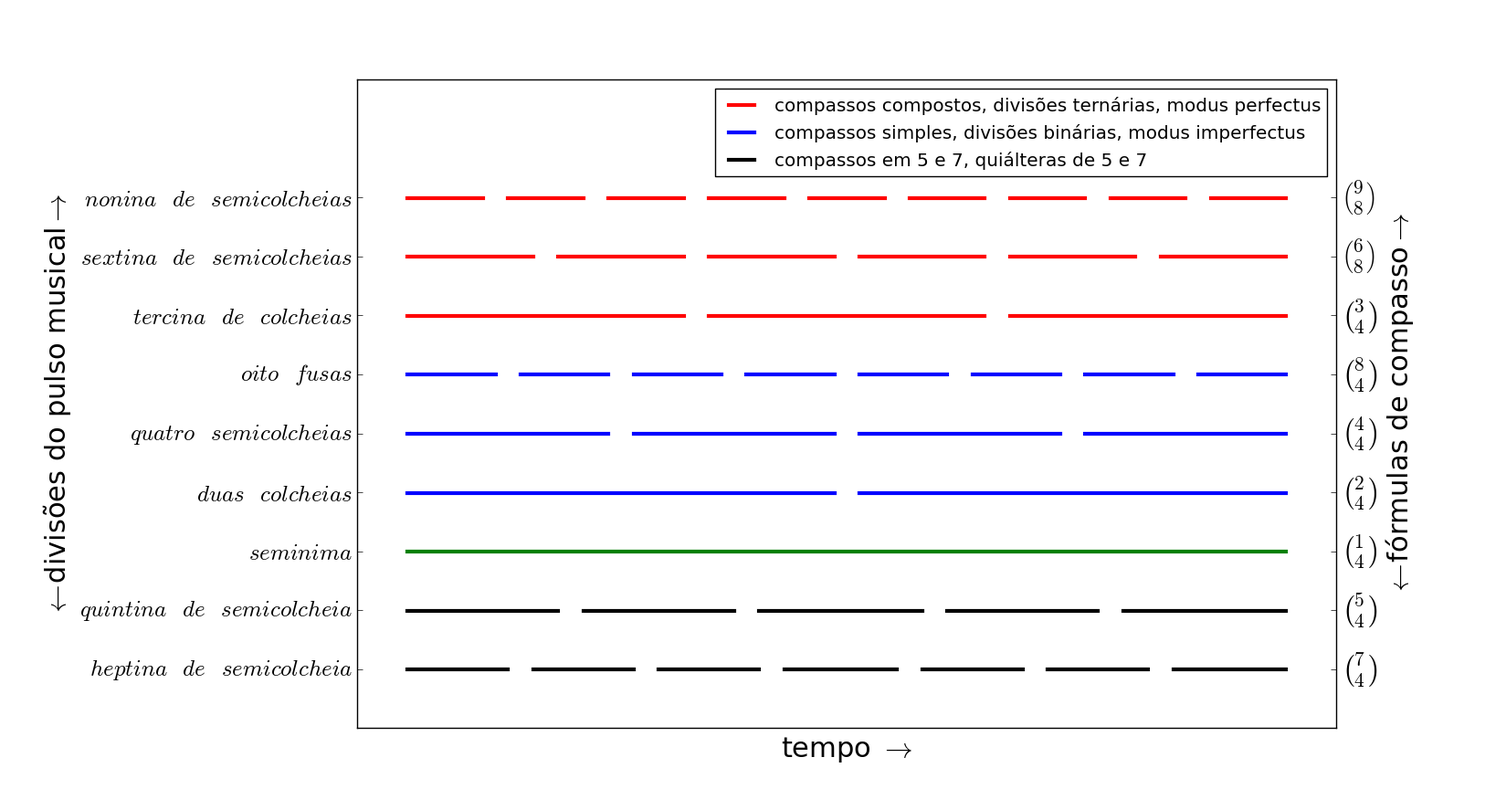
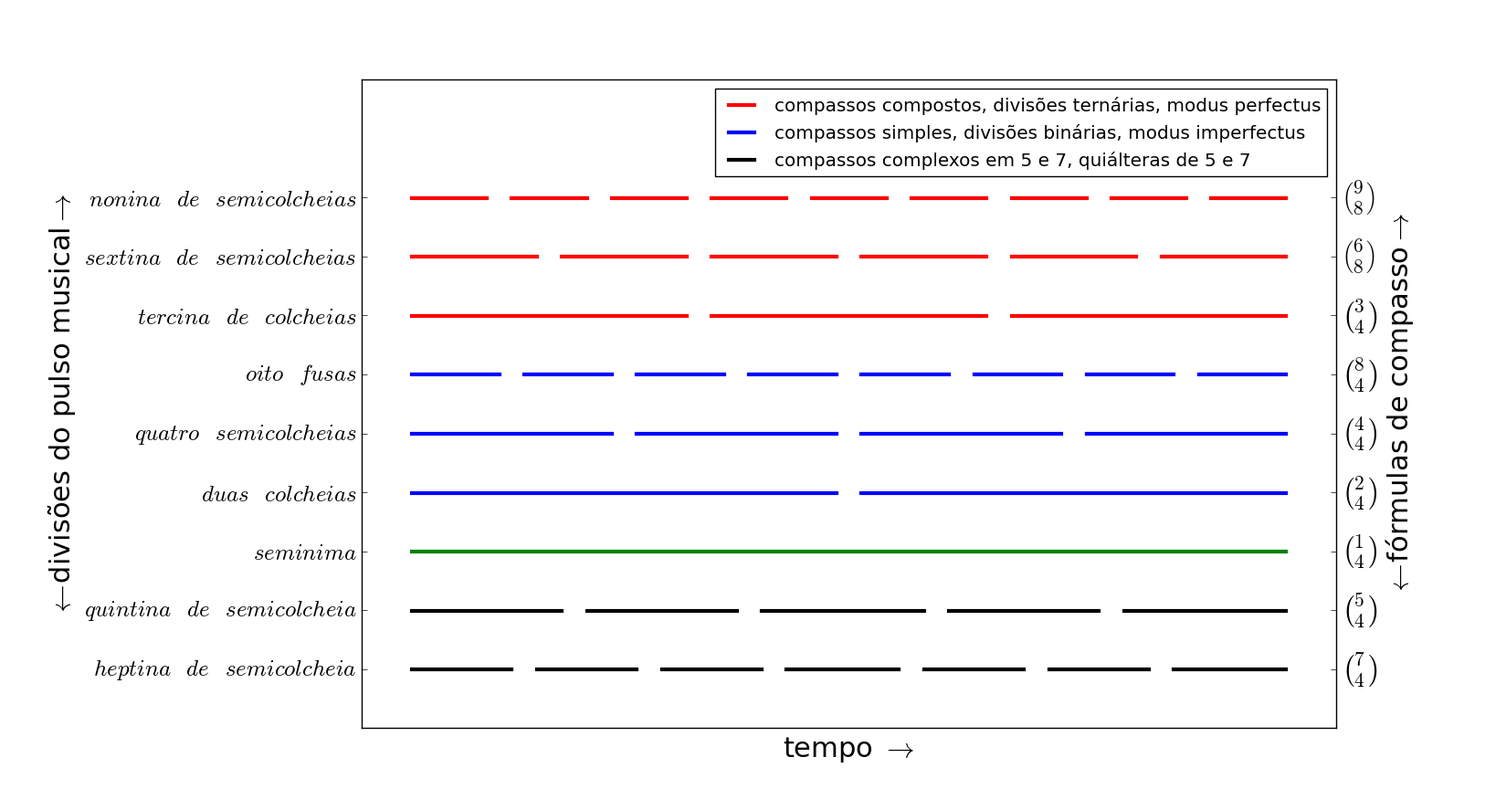
andando

Changed region(s): [[0.0308, 0.1218, 0.246, 0.8828], [0.5843, 0.1826, 0.8303, 0.2131], [0.5228, 0.9132, 0.5843, 0.9436]]

diff --git a/devEresultados.tex b/devEresultados.tex
@@ -1530,7 +1530,7 @@ para tornar estas estruturas interessantes e agradáveis.
 
 Os elementos de $S_j$ podem ser mixados (veja equação~\ref{eq:mixagem} e a figura~\ref{fig:mixagem}) formando intervalos e acordes ou concatenados (veja equação~\ref{eq:concatenacao} e a figura~\ref{fig:concatenacao}) formando sequências melódicas.
 
-\subsubsection{Afinação, escalas, acordes e intervalos}
+\subsubsection{Afinação, intervalos, escalas e acordes}
 Quando dobramos a frequência, temos uma oitava ascendente ($f=2f_0$).
 Doze semitons equidistantes para o ouvido formam uma oitava,
 portanto, se $f=2^{\frac{1}{12}}f_0$, temos um semitom entre $f_0$
@@ -1543,37 +1543,41 @@ computacionais, pois os intrumentos reais possuem desvios destas frequências pa
 de suas notas~\cite{Roederer}.
 
 Esta divisão da oitava em doze notas é o cânone da música ocidental clássica,
-além de usos cerimoniais/religiosos e étnicos~\cite{Wisnick}. Os intervalos entre quaisquer duas notas da escala de 12 notas em que se subdivide a oitava possuem nomes específicos. Notados em proporções de $\varepsilon$ entre as notas (i.e. um semitom), estes intervalos são:
+além de usos cerimoniais/religiosos e étnicos~\cite{Wisnick}. Os intervalos entre quaisquer duas notas da escala de 12 notas em que se subdivide a oitava possuem nomes específicos. Notados em proporções de $\varepsilon$ entre as notas (i.e. um semitom), estes intervalos são, junto a suas notações abreviadas usuais:
 
 \begin{equation}
 \begin{split}
-\text{uníssono} & = 0 \\
-\text{semitom ou segunda menor} & = 1 \\
-\text{tom, tom inteiro ou segunda maior} & = 2 \\
-\text{terça menor} & = 3 \\
-\text{terça maior} & = 4 \\
-\text{quarta justa} & = 5 \\
-\text{quarta aumentada, quinta diminuta ou trítono} & = 6 \\
-\text{quinta justa} & = 7 \\
-\text{sexta menor} & = 8 \\
-\text{sexta maior} & = 9 \\
-\text{sétima menor} & = 10 \\
-\text{sétima maior} & = 11 \\
-\text{oitava} & = 12
+\text{uníssono} = 1J & = 0 \\
+\text{semitom ou segunda menor} =2m & = 1 \\
+\text{tom, tom inteiro ou segunda maior} =2M & = 2 \\
+\text{terça menor} = 3m & = 3 \\
+\text{terça maior} = 3M & = 4 \\
+\text{quarta justa} = 4J & = 5 \\
+\text{quarta aumentada, quinta diminuta ou trítono} = 4aum = 5dim = Tri & = 6 \\
+\text{quinta justa} = 5J & = 7 \\
+\text{sexta menor} = 6m & = 8 \\
+\text{sexta maior} = 6M & = 9 \\
+\text{sétima menor} = 7m & = 10 \\
+\text{sétima maior} = 7M & = 11 \\
+\text{oitava} = 8J & = 12
 \end{split}
 \end{equation}
 
 Nesta nomenclatura (padrão no Brasil há algumas décadas),
 um intervalo justo (uníssono, quarta, quinta e oitava), ou um intervalo maior (segunda maior, terça maior, sexta maior ou sétima maior), acrescido de um semitom, resulta em um intervalo aumentado. Um intervalo justo, ou um intervalo menor (segunda menor, terça menor, sexta menor ou sétima menor), decrescido de um semitom, resulta em um intervalo diminuto. Um intervalo maior, descrescido de um semitom,
 resulta em um intervalo menor. Um intervalo menor, acrescido de um semitom, resulta em um intervalo maior. Um intervalo aumentado, acrescido de um semitom, resulta em um intervalo 'mais que aumentado' e um intervalo diminuto, descrescido de um semitom, resulta em um intervalo 'mais que diminuto'\footnote{A
- necessidade de da nomenclatura, notação e uso de intervalos aumentados/diminutos e mais que aumentados/diminutos é consequência do sistema tonal, em que os graus da escala (veja abaixo) são realmente notas diferentes, com funções e usos específicos. Assim, em uma escala de dó bemol maior, a tônica - primeiro grau - é dó bemol, não si, e a sensível - sétimo grau - é si bemol, não lá sustenido ou dó duplo bemol.}. 
+ necessidade da nomenclatura, notação e uso de intervalos aumentados/diminutos e mais que aumentados/diminutos é consequência do sistema tonal, em que os graus da escala (veja abaixo) são realmente notas diferentes, com funções e usos específicos. Assim, em uma escala de dó bemol maior, a tônica - primeiro grau - é dó bemol, não si, e a sensível - sétimo grau - é si bemol, não lá sustenido ou dó duplo bemol.}. 
 
-Caso as notas sejam dispostas sequencialmente, a ordem das notas, primeiro a nota mais grave ou a mais aguda, resulta em um intervalo ascendente ou descendente, respectivamente. 
+Caso as notas sejam dispostas sequencialmente, o intervalo é dito melódico. A ordem das notas, primeiro a nota mais grave ou a mais aguda, resulta em um intervalo ascendente ou descendente, respectivamente. 
 Passando a nota mais grave para a oitava acima, ou a nota mais aguda uma oitava para baixo, invertemos o intervalo. Um pouco de exploração do sistema revela que um intervalo, somado à sua inversão, resulta 9. Um intervalo maior invertido resulta em um intervalo menor e vice-versa. Um intervalo aumentado invertido resulta diminuto e vice-versa, assim como o mais que aumentado resulta em mais que diminuto e vice-versa. Um intervalo justo invertido resulta igualmente justo.
+
+
+Caso as notas soem simultaneamente, o intervalo é dito harmônico. Os intervalos de uníssono, oitava, quinta justa, quarta justa, terças e sextas são considerados {\bf consonantes}. As segundas, sétimas e trítonos são considerados {\bf dissonantes}. Esta classificação não é absoluta. A sétima menor por vezes é considerada consonante, assim como algumas culturas entoam o trítono como intervalo consonante~\cite{Roederer,Wisnick}.
 
 Um intervalo maior que a oitava é classificado como intervalo composto e leva o nome do intervalo entre as mesmas notas, mas na mesma oitava.
 
-Este arcabouço resume com exatidão a teoria dos intervalos musicais~\cite{Lacerda} e nos será útil adiante. Dispomos esta nomenclatura também por completude desta exposição, não há necessidade alguma de decorar estes nomes ou apreender estes detalhes todos enquanto não há uso efetivo.
+Este arcabouço resume com exatidão a teoria dos intervalos musicais~\cite{Lacerda} e nos será útil adiante. Dispomos esta nomenclatura também por completude desta exposição, não há necessidade alguma de decorar estes nomes ou apreender estes detalhes todos enquanto não há uso efetivo. A montagem \emph{Intervalos entre alturas} explora estes intervalos de formas isoladas e de formas diversas.
+
 
 Na escala cromática
 de temperamento igual, temos 5 divisões perfeitamente simétricas, consideradas
@@ -1595,7 +1599,7 @@ Assim, a terceira nota da escala em tons inteiros com $f_0=200Hz$
 é $f_3=\varepsilon^{e_3^t} . f_0 = 2^{\frac{6}{12}} . 200 \approxeq 282.843 Hz$. Estas
 'escalas' ou padrões, geram estruturas estáveis pelas simetrias internas, e podem ser
 repetidas de forma eficiênte e sustentada. Discutiremos mais sobre simetrias e voltaremos
-a estas divisões da oitava por igual.
+a estas divisões da oitava por igual. A montagem \emph{Cristais} expõe cada uma destas escalas tanto melódica quanto harmonicamente.
 
 As escalas diatônicas também são facilmente especificadas, assim como
 as escalas tonais maior e menor:
@@ -1647,10 +1651,10 @@ A escala menor se apresenta em duas formas adicionais, dependentes do uso, meló
 \end{split}
 \end{equation}
 
-e podem ser utilizadas livremente, embora tradicionamente se associem aos citados usos melódicos ou harmônicos. Observe o traçado ascendente e descendente da escala menor melódica. Isso é necessário para que se apresente a sensível (sétimo e último grau separado por um semitom da oitava) no trajeto ascendente, o que não é necessário quando descende, retomando a forma natural. Já a harmônica apresenta a sensível, mas não evita o intervalo de segunda aumentada entre o sexto e sétimo graus, pois não precisa contemplar trajetória melódica, apenas apresentar a sensível tão cara ao sistema tonal~\cite{Harmonia}.
+e podem ser utilizadas livremente, embora tradicionamente se associem aos usos melódicos ou harmônicos sugeridos pelos seus nomes. Observe o traçado ascendente e descendente da escala menor melódica. Isso é necessário para que se apresente a sensível (sétimo e último grau separado por um semitom da oitava) no trajeto ascendente, o que não é necessário quando descende, retomando a forma natural. Já a harmônica apresenta a sensível, mas não evita o intervalo de segunda aumentada entre o sexto e sétimo graus, pois não precisa contemplar trajetória melódica, apenas apresentar a sensível tão cara ao sistema tonal~\cite{Harmonia}.
 
 A ocorrência simultânea de notas é observada musicalmente em grande medida
-através dos acordes. Listamos os acordes triádicos sem inversão e na forma fechada,
+através dos acordes. Destes, a base na musica tonal são as tríades, que consistem em duas terças sucessivas. Listamos os acordes triádicos sem inversão e na forma fechada\footnote{Um acorde invertido é aquele que apresenta no grave outra nota que não a fundamental. A posição fechada é aquela em que não cabe nota alguma do acorde entre quaisquer duas notas consecutivas~\cite{Lacerda}.},
 com a fundamental em $0$:
 
 \begin{equation}
@@ -1662,9 +1666,8 @@ com a fundamental em $0$:
 \end{split}
 \end{equation}
 
-Basta acrescentar $10$ para ter o acorde
-com sétima menor ou $11$ para resultar em sétima maior\footnote{As sétimas
-menor e maior são intervalos de $10$ e $11$ semitons respectivamente.}. As inversões e posições abertas
+Basta acrescentar $10$ ao final para ter o acorde (uma tétrade)
+com sétima menor ou $11$ para resultar em sétima maior. As inversões e posições abertas
 podem ser obtidas contando o número de semitons de cada nota a partir da nota mais grave.
 
 Para a realização de microtonalidade\footnote{O uso explícito de
@@ -1688,6 +1691,63 @@ continuam sendo compostas por inteiros com o novo $\varepsilon$.
 Note que se $S_i$ é uma sequência de alturas $s_i$ e mudamos de $\varepsilon_1$ para
 $\varepsilon_2$,
 resultamos em uma nova sequência $S_i'$ com $s_i'=s_i \frac{\varepsilon_1}{\varepsilon_2}$.
+
+
+\subsubsection{Rudimentos de harmonia}
+
+Abordaremos de forma bastante resumida e voltada para nossas aplicações
+computacionais a harmonia tonal. Para harmonia modal e atonal recomendamos~\cite{harmEXT}.
+
+Na chamada harmonia tradicional, as escalas maior e menor são usadas
+de base para tríades feitas em cada grau da escala com duas terças consecutivas.
+É conveniente, assim, notar os graus da escala pelos números da seguinte forma: $\hat{1},\hat{2},\hat{3},\hat{4},\hat{5},\hat{6},\hat{7}$.
+
+Assim, as tríades formadas em cada grau é de fácil notação $\hat{1},\hat{3},\hat{5}$ é o acorde de primeiro grau, formado pelo primeiro grau da escala e central para uma música tonal. Em segundo lugar temos o acorde do quinto grau $\hat{5},\hat{7},\hat{2}$ ($\hat{7}$ sustenido no caso da escala menor) e em terceiro o do quarto grau $\hat{4},\hat{6},\hat{1}$. Depois consideramos as outras tríades todas. Ao longo da história, formas diferentes de lidar com estas tríades foram desenvolvidas. Estas convenções e técnicas apresentadas ao longo da história é o objeto de estudo da harmonia tradicional~\cite{Harmonia}.
+
+A chamada harmonia funcional atribui funções a estes três acordes centrais e busca compreender seus usos através destas funções. O acorde formado sobre o primeiro grau é chamado de acorde de tônica e tem a função de manter um centro e um "chão" na música. O formado sobre o quinto grau é chamado de acorde de dominante e tem a função de tender à tônica, direcionar a música para ela. A tríade formada sobre o quarto grau é chamada de subdominante e tem a função de se distanciar da tônica.
+
+
+A estes três acordes, são associadas as outras tríades. Na escala maior, a associada relativa (tônica relativa, subdominante relativa e dominante relativa) é a tríade formada uma terça abaixo e a associada anti-relativa (tônica anti-relativa, subdominante anti-relativa e a dominante anti-relativa) é a tríade formada na terça acima. Na escala menor ocorre o mesmo, mas a tríade a uma terça abaixo é chamada anti-relativa e a tríade a uma terça acima é chamada de relativa. As exatas funções e efeitos musicais destes acordes é motivo de bastante controvérsia. Dispomos da tabela~\ref{tab:harmonia} esta relação entre as tríades formadas em cada grau da escala.
+
+\begin{table}[htpq!]
+\centering
+\begin{tabular}{l | c | r}
+relativa & acorde principal da função & antirelativa \\\hline\hline
+$\hat{6},\hat{1},\hat{2}$ & tônica:       $\hat{1},\hat{3},\hat{5}$ & $\hat{3}, \hat{5},      \hat{7}$ \\
+$\hat{3},\hat{5},\hat{7}$ & dominante:    $\hat{5},\hat{7},\hat{2}$ & [$\hat{7},\hat{2},\hat{4}$] \\
+$\hat{2},\hat{4},\hat{6}$ & subdominante: $\hat{4},\hat{6},\hat{1}$ & $\hat{6},\hat{1},       \hat{3}$
+\end{tabular}
+\caption{Resumo das funções harmônicas tonais para escala maior}
+\label{tab:harmonia}
+\end{table}
+
+Na escala menor, a relativa é a tríade iniciada uma terça acima e a antirelativa uma terça abaixo,
+ou seja, se invertem com relação à tabela~\ref{tab:harmonia}. Outro detalhe destas tríades em modo
+menor é a alteração do $\hat{7}$ um semitom acima para que fique somente a um semitom da tônica,
+permitindo a dominante de fato (que deve tender à tônica). Assim, a dominante é sempre maior, tanto
+em escalas
+maior ou menor.
+
+A alteração do sétimo grau
+$\hat{7}$ para atender a esta necessidade tonal dá origem a diferentes versões sobre
+a definição da dominante relativa ou antirelativa numa escala menor e recomendamos,
+para maiores detalhes, alguns títulos de nossa bibliografia~\cite{Koellheuteur,Harmonia,Schachter,harmFunc}.
+
+Voltando à escala maior, a dominante anti-relativa forma um acorde diminuto, de forma que geralmente se considera esta tríade uma 'dominante com sétima e sem fundamental'~\cite{Koellheuteur} e não se considera nenhuma dominante anti-relativa. Outra possibilidade encontrada na literatura é a elevação do $\hat{4}$ em um semitom para compor uma dominante anti-relativa que resulte em uma tríade consonante estável.
+
+Cada um destes acordes pode ser confirmado e se desenvolver com uma dominante e uma subdominante individuais (acorde com base na tríade formada a uma quinta acima e uma quinta abaixo respectivamente).
+
+Por último, vale apontar as medianas\footnote{Também chamadas de medianas cromáticas.}, que são acordes formados também a uma terça, mas com alterações com relação ao acorde de origem. Caso haja duas alterações cromáticas, i.e. duas notas alteradas por um semitom cada com relação ao acorde original, a mediana é chamada 'duplamente cromática'. Esta relação entre acordes é considerada de tonalismo avançado, por vezes até de dissolução do tonalismo, e tem efeitos fortes e marcantes. Foi muito utilizada do final do romantismo em diante por Wagner, Lizt, Richard Strauss dentre outros e é bastante simples de ser realizada~\cite{Harmonia,Schachter}.
+
+As modulações e sutilezas de encaminhamento de vozes podem ser encontradas em títulos diversos como os citados acima e constituem uma discussão longa e ainda presente. Apontamos somente que, para a condução de diferentes vozes, os movimentos que levam a notas vizinhas costumam soar mais coerentes e que as modulações se dão principalmente através de uma dominante individual que afirma a mudança da tônica e através de alterações cromáticas e enharmonias (mudança de função de um acorde). A importância da dominante torna ela o alvo primário e natural das modulações, resultando no circulo das quintas~\cite{Harmonia,Schachter,Koellheuteur,Harmony}.
+
+A montagem musical \emph{Vagas matizes} explora estas relações entre acordes.
+
+\subsubsection{Rudimentos de Contraponto}
+
+A condução de linhas melódicas simultâneas, chamadas vozes,
+é matéria do campo de estudo chamado contraponto. A nossa bibliografia aponta títulos para estudos específicos, geralmente percorrendo gêneros de condução de vozes e desembocando em gêneros escolásticos como cânones, invenções e fugas. Beethoven resumiu de forma satisfatória para uma breve exposição como esta da seguinte forma: todo intervalo dissonante é resolvido por grau conjunto descendente da voz superior, só é permitido movimento paralelo em terças ou sextas e não mais do que três movimentos consecutivos e é proibido atingir quinta ou oitava por movimento direto, pois é considerada uma 'quinta oculta' ou 'oitava oculta'~\cite{Fux,Tragtenberg,SchoenbergContra}.
+
 
 \subsubsection{Rítmo}
 A noção rítmica é dependente de eventos separados por durações~\cite{rythm}. Estes eventos são discerníveis individualmente se separados
@@ -1740,7 +1800,7 @@ e ocasiões festivas e são chamadas imperfeitas. As relações triádicas
 incidem mais na música ritualística e relacionada ao sagrado
 e são ditas perfeitas.
 
-As unidades mais fortes (acentuadas) são as que consistem nas cabeças dos tempos. Nas divisões binárias (2, 4 e 8 dos casos considerados aqui),
+As unidades mais fortes (acentuadas) são as que consistem nas 'cabeças das divisões'. A cabeça de um tempo ou uma unidade dividida é a primeira parte da subdivisão. Nas divisões binárias (2, 4 e 8 dos casos considerados aqui),
 as unidades consideradas fortes se revesam com as fracas
 (e.g. a divisão em 4 resulta em forte, fraco, (meio) forte, fraco).
 Nas divisões ternárias (3, 6 e 9 dos casos considerados neste escrito)
@@ -1761,7 +1821,7 @@ Com o fim de sistematizar e colocar em termos formais, podemos convencionar
 o pulso como nível $j=0$ de agrupamento, o nível $j=-1$ 
 é a primeira subdivisão do pulso, o nível $j=1$ como a primeira algomeração dos pulsos e assim por diante. 
 
-Assim, $P_i^j$ é a $i$-ésima unidade de 
+Desta forma, $P_i^j$ é a $i$-ésima unidade de 
 pulsos no nível $j$ de agrupamento:
 $P^0_{10}$ é o décimo pulso, $P^{1}_3$ é a terceira unidade de agrupamento de pulsos (possivelmente terceiro compasso),
 $P^{-1}_2$ é a segunda unidade da subdivisão do pulso.
@@ -1770,13 +1830,13 @@ Especial atenção para
 os limites de $j$ pois as divisões do pulso devem resultar em durações apreciáveis
 como rítmo e também as junções do pulso devem resultar algo apreciável como, no máximo
 do nosso escopo, uma música ou um conjunto coeso de músicas. Dito de outra forma: a duração de $P^{min(j)}_i$, para $\forall \; i$
-é maior que $50ms$ e as durações de $P^{\text{máx}(j)}_i$ \emph{somadas}  em $\forall i$
+é maior que $50ms$ e as durações de $P^{\text{máx}(j)}_i$ \emph{somadas}  em $\forall \; i$
 devem resultar em uma duração menor do que alguns minutos ou, no máximo, poucas horas.
 
 
 Para cada nível $j$ temos alguns índices $i$. Sempre que $i$ soma três 
 (ou múltiplo de três) índices temos uma relação \emph{perfecta}, 
-quando soma dois, quatro ou oito índices temos uma relação \emph{imperfecta}.
+quando soma dois, quatro ou oito índices temos uma relação \emph{imperfecta} (veja figura~\ref{fig:pulsoSubAgl}.
 
 
 Para especificar qualquer unidade (nota), de uma
@@ -1823,9 +1883,11 @@ outra que, de forma paradigmática, volta do ápice à região da nota de partid
 \end{figure}
 
 
-Seja $S_i=\{s_i\}_0^{\Lambda_S-1}$ uma sequência crescente. A sequência 
-$R_i=\{r_i\}_0^{2\Lambda_S -2}=\{s_{(\Lambda_S-1-|\Lambda_S-1-i|)}\}_0^{2\Lambda_S-2}$ 
-é uma sequência perfeitamente simétrica\footnote{Apresenta simetria especular perfeita, i.e. a segunda metade é uma versão espelhada da primeira.}. Pensada segundo conceitos musicais, o clímax está exatamente no meio da sequência. Podemos modificar isso fazendo com que alguma das metades seja expandida ou diminuída ou substituindo alguma das metades por outra sequência de tamanho diferente. É atraente este recurso pois contamos com toda a teoria de sequências, já bastante desenvolvida e estabelecida. Comparadas as sequências estudadas na teoria das sequências e as utilizadas na música, podemos concluir que existe um interesse especial por sequências relativamente curtas comparadas com as encontradas na teoria matemática~\cite{Guidorizzo,Schoenberg}.
+Seja $U_i=\{u_i\}_0^{\Lambda_U-1}$ uma sequência crescente. A sequência 
+$R_i=\{r_i\}_0^{2\Lambda_U -2}=\{u_{(\Lambda_U-1-|\Lambda_U-1-i|)}\}_0^{2\Lambda_U-2}$ 
+é uma sequência perfeitamente simétrica\footnote{Apresenta simetria especular perfeita, i.e. a segunda metade é uma versão espelhada da primeira.}. Pensada segundo conceitos musicais, o clímax está exatamente no meio da sequência. Podemos modificar isso fazendo com que alguma das metades seja expandida ou diminuída ou substituindo alguma das metades por outra sequência de tamanho diferente. É atraente este recurso pois contamos com toda a teoria de sequências, já bastante desenvolvida e estabelecida. Comparadas as sequências estudadas na teoria das sequências e as utilizadas na música, podemos concluir que existe um interesse especial por sequências relativamente curtas comparadas com as encontradas na teoria matemática~\cite{Guidorizzo,Schoenberg}. Teoricamente, estas sequências aplicadas a qualquer característica dos eventos musicais resulta em arcos. 
+Assim, podemos conceber para a mesma sequência de eventos um certo número de arcos distintos, com tamanhos diferentes e climax diferentes para as características escolhidas. Embora este seja um recurso
+bastante interessante e útil, vale manter em mente que a correlação dos arcos resulta em coerência da escuta~\cite{Schachter}.
 
 \subsubsection{Estruturas cíclicas}
 Os arcos musicais nem sempre são fruto de estruturas direcionais como as citadas
@@ -1834,7 +1896,7 @@ até atingirem o estado original, formando um arco cíclico.
 
 Neste caso, faremos uma exposição específica sobre permutações dada
 a completude desta abordagem segundo princípios musicais, matemáticos e
-filosóficos\footnote{De
+filosóficos além da incidência musical histórica\footnote{De
 forma bastante resumida, apontamos o
 entendimento filosófico de que o pensamento humano se baseia
 na percepção de semelhanças e diferenças dentre os estímulos
@@ -1847,31 +1909,44 @@ Diretamente na música encontramos permutações de forma bastante explícita, i
 na análise de música étnica~\cite{permMusic}.
 Na tradição musical a permutação está presente em diversas técnicas~\cite{Zamacois} e
 apontamos em especial a técnica \emph{Change Ringing} que consiste essencialmente
-em padrões de permutações dentre um fixado número de notas~\cite{change}.} e a consequente realização de dois trabalhos~\cite{figgusOriginal, figgusEspacializacao}.
+em padrões de permutações dentre um fixado número de notas~\cite{change}.} e a consequente realização de dois trabalhos acadêmicos~\cite{figgusOriginal, figgusEspacializacao}.
 
-Qualquer conjunto de permutações podem ser consideradas geradoras de grupos algébricos. Assim, vale citarmos as propriedades que definem um grupo $G$:
+Qualquer conjunto de permutações pode ser utilizado como gerador de grupos algébricos~\cite{groups}. Assim, vale citarmos as propriedades que definem um grupo $G$:
 
-\begin{equation}
-\begin{split}
-\forall p_1,p_2 \in G \Rightarrow p_1 \bullet p_2 & = p_3 \in G\quad\text{(propriedade de fechamento)} \\
-\forall p_1,p_2,p_3 \in G \Rightarrow (p_1\bullet p_2)\bullet p_3 & = p_1\bullet (p_2\bullet p_3)\quad\text{(propriedade da associatividade)} \\
-\exists e \in G : p \bullet e & = e \bullet p \forall p \in G\quad\text{(existência do elemento neutro)} \\
-\forall p \in G \exists p^{-1} : p\bullet p^{-1} & =p^{-1}\bullet p = e\quad\text{(existência do inverso)}
-\end{split}
-\end{equation}
+\begin{align}
+\forall \;\; p_1,p_2 \in G \Rightarrow\quad\quad\quad\;\; p_1 \bullet p_2 & = p_3 \in G  \quad\quad\quad\;\;\;\text{(propriedade de fechamento)} \\
+\forall \;\; p_1,p_2,p_3 \in G \Rightarrow\quad (p_1\bullet p_2)\bullet p_3 & = p_1\bullet (p_2\bullet p_3)\quad\;  \text{(propriedade da associatividade)} \\
+\exists \;\; e \in G :\quad\quad\quad\quad\; p \bullet e & = e \bullet p \;\;\;\; \forall p \in G  \quad \text{(existência do elemento neutro)} \\
+\forall \;\; p \in G, \;\exists\; p^{-1} :\quad\quad\quad\;  p\bullet p^{-1} & =p^{-1}\bullet p = e  \quad\quad\;\text{(existência do inverso)}
+\end{align}
 
 
 A primeira destas propriedades nos é de particular importância, pois concluímos que toda permutação pode ser operada com outra permutação. De fato, podemos aplicar uma permutação, depois outra e, se compararmos com a ordenação inicial, temos uma permutação resultante. As outras propriedades resultam triviais para nosso caso.
 
-Alguns teoremas nos são caros. Por exemplo, segue imediatamente que, em um grupo finito, todo elemento operado consigo mesmo um número de vezes resulta no elemento neutro. O menor número de vezes necessário para atingir o elemento neutro é chamado de ordem do elemento. Assim, uma permutação finita aplicada sucessivamente um número suficiente de vezes
-resulta na ordenação inicial dos elementos:
+Alguns teoremas nos são caros. Por exemplo, segue imediatamente que, em um grupo finito, todo elemento $p$ operado consigo mesmo um número suficiente de vezes resulta no elemento neutro $p^n=e$, pois caso contrário a propriedade do fechamento resultaria em um grupo infinito gerado por $p$. O menor $n\;:\;p^n=e$ é chamado de ordem do elemento. Assim, uma permutação finita $p$ aplicada sucessivamente um número suficiente de vezes resulta na ordenação inicial dos elementos, formando um ciclo, i.e. um arco musical se os elementos ordenados são elementos musicais e se consultados em cada estágio.
 
-\begin{equation}
-(p)^n = e \quad : \quad \text{se} \; p \; \text{finito} \; \Rightarrow \; \exists \;\; n  \in \mathbb{N} \; \text{e finito}
-\end{equation}
+Estes arcos, que levam uma ordenação de elementos na mesma ordenação após um certo número de aplicações de permutações, podem ser efetuados pelo uso conjunto de diferentes permutações. Como exemplo
+histórico, a tradição chamada \emph{change ringing} concebe música através de sinos tocados um após o outro e então tocados novamente, mas em uma ordem diferente. Este processo se repete até que se atinja a ordenação inicial e o conjunto de ordenações diferentes percorridas consiste no que é chamado de um \emph{peal}. Dispomos na tabela~\ref{tab:change} um \emph{peal} tradicional de 3 sinos (1, 2 e 3), que explora todas as suas ordenações. Cada linha apresenta uma ordenação dos sinos a ser tocada. As permutações agem aqui entre as linhas.
+% {\color{blue} AA}
 
-O menor valor de $n$ é chamado de \emph{ordem} da permutação $p$. O elemento $e$ é o elemento neutro e é
-a permutação que leva uma ordenação para ela mesma. Aqui já se pode notar o comportamento cíclico causado pela aplicação sucessiva da mesma permutação.
+\begin{table}[htpq!]
+\centering
+\begin{tabular}{l c r}
+\textcolor{red}{1} & \textcolor{blue}{2} & \textcolor{green}{3} \\
+\textcolor{blue}{2} & \textcolor{red}{1} & \textcolor{green}{3} \\
+\textcolor{blue}{2} & \textcolor{green}{3} & \textcolor{red}{1} \\
+\textcolor{green}{3} & \textcolor{blue}{2} & \textcolor{red}{1} \\
+\textcolor{green}{3} & \textcolor{red}{1} & \textcolor{blue}{2} \\
+\textcolor{red}{1} & \textcolor{green}{3} & \textcolor{blue}{2} \\
+\textcolor{red}{1} & \textcolor{blue}{2} & \textcolor{green}{3}
+\end{tabular}
+\caption{Change Ringing: \emph{Peal} (padrão) com 3 sinos}
+\label{tab:change}
+\end{table}
+
+Para maiores detalhes desta tradição, recomendamos~\cite{change}. Importante para nós aqui é notar a existência de tradições musicais consciêntes da importância das permutações na música e observar que, neste caso, a estrutura musical consiste em permutações propriamente ditas e algumas permutações diferentes estão operando. 
+Assim, fica claro o comportamento cíclico causado pela aplicação sucessiva da mesma permutação
+e a consistência musical deste procedimento.
 
 A utilização de permutações na música pode ser resumida da seguinte forma:
 seja $L_i$ uma sequência de eventos musicais (para simplificar, considere
@@ -1888,7 +1963,7 @@ o padrão que $p^f$ apresenta.
 
 Por último, duas sutilezas deste procedimento.
 Primeiro, a permutação $p$ não precisa envolver todos os elementos de $L_i$, i.e. ela
-pode operar em subconjuntos de $L_i$. Segundo, nem todos os eventos $L_i$ precisam ser executados a
+pode operar em subconjuntos de $L_i$. Segundo, nem todos os elementos $l_i$ precisam ser executados a
 cada consulta de estado realizada.
 
 Para simplificar, considere novamente os eventos de $L_i$ 
@@ -1898,7 +1973,7 @@ $L_i$ podem ser incidentes nos compassos em que as permutações aloquem
 estas notas para as primeiras quatro notas de $L_i$.
 
 Podemos dispor permutações que operem no mesmo conjunto, cada uma destas permutações
-$p_i$ possui: dimensões das notas em que opera (frequência, duração, fades, intensidade, etc), modo de incidência (opera em $L_i$ a cada uma ou duas utilizações de $L_i$), período de aplicação (a cada quantas consultas é aplicada a permutação). Na realização das notas de $L_i$, uma solução fácil e coerente é executar as primeiras $n$ notas\footnote{A execução de notas disjuntas de $L_i$ equivale a modificar a permutação e executar as primeiras notas.}.
+$p_i$ possui ao menos, segundo nossa exposição acima, vinculadas à permutação em si: dimensões das notas em que opera (frequência, duração, fades, intensidade, etc) e período de incidência (a cada quantas consultas é aplicada a permutação). Na realização das notas de $L_i$, uma solução fácil e coerente é executar as primeiras $n$ notas\footnote{A execução de notas disjuntas de $L_i$ equivale a modificar a permutação e executar as primeiras notas.}.
 
 Esta abordagem resultou em alguns trabalhos~\cite{figgusOriginal,figgusEspacializacao} e implementações computacionais~\cite{repoFIGGUS,repoFIGGUSold}. Descrevemos um uso coerente desta técnica abaixo e apresentamos no APÊNCIDE~\ref{cap:FIGGUScode} a implementação computacional disponibilizada em~\cite{repoFIGGUS}
 

diff --git a/scripts/metricaMusical.py b/scripts/metricaMusical.py
@@ -21,7 +21,7 @@ for i in xrange(9):
 
 p.plot((-1000,-1000),'r',linewidth=3,label=u'compassos compostos, divisões ternárias, modus perfectus')
 p.plot((-1000,-1000),'b',linewidth=3,label=u'compassos simples, divisões binárias, modus imperfectus')
-p.plot((-1000,-1000),'k',linewidth=3,label=u'compassos em 5 e 7, quiálteras de 5 e 7')
+p.plot((-1000,-1000),'k',linewidth=3,label=u'compassos complexos em 5 e 7, quiálteras de 5 e 7')
 p.legend(loc="upper right")
 
 
